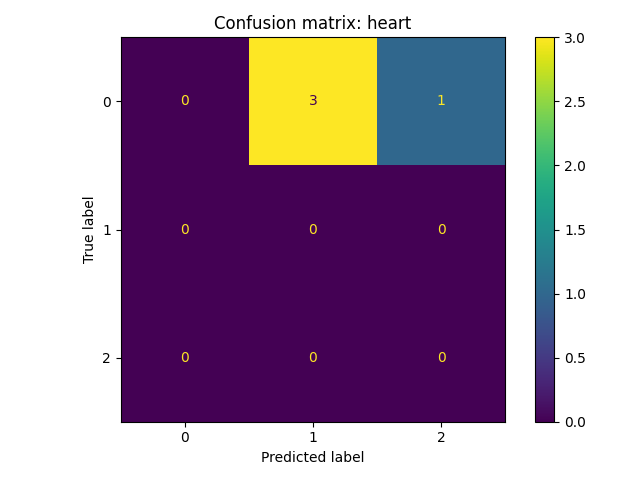
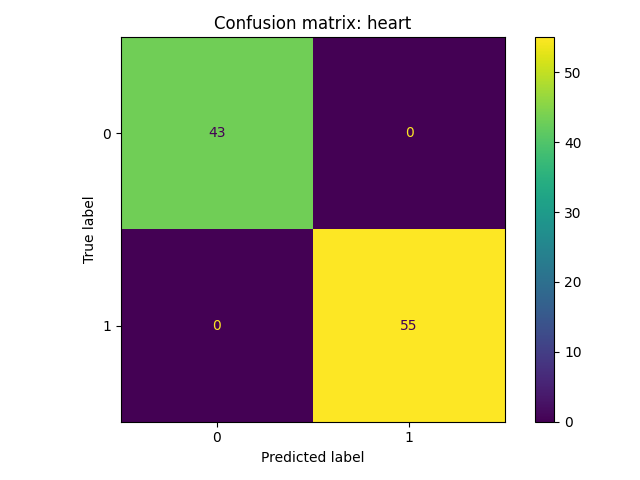
added triage results, enforcing range in Confidenc scores

diff --git a/2_llm_mcp.py b/2_llm_mcp.py
@@ -13,7 +13,7 @@ import re
 
 from openai import OpenAI
 
-from pydantic import BaseModel
+from pydantic import BaseModel, Field
 
 warnings.filterwarnings("ignore")
 
@@ -26,11 +26,16 @@ client = OpenAI(
 
 MODEL = "Llama-3.2-3B-Instruct-Q4_K_M:latest"
 
+class Confidence(BaseModel):
+    score: float = Field(ge=0, le=1)
+
 class TriageAnalysis(BaseModel):
     routes: list[str]
     primary: str
     confidence: dict[str, float]
     notes: str
+
+
 
 def call_llm_fn(prompt: str) -> str:
     # Replace with your actual OpenAI/LLM client call.
@@ -44,14 +49,6 @@ def call_llm_fn(prompt: str) -> str:
         response_format=TriageAnalysis,
     )
     return response.choices[0].message.parsed
-
-    return """{
-  "routes": ["diabetes", "heart"],
-  "primary": "heart",
-  "confidence": {"diabetes": 0.35, "heart": 0.72, "breast_cancer": 0.05},
-  "notes": "Brief triage rationale."
-}"""
-
 
 def make_case_text(pid, d_row, b_row, h_row):
     # d_row, b_row, h_row are 1D arrays (same as you pass to models)
@@ -151,21 +148,22 @@ class LLMPlannerAgent(BaseAgent):
             }
             self.model.triage_log.append(triage_log)
 
-            for disease in routes:
-                if disease in list(payload["data"].keys()):
-                    task_id = f"task_{disease}_{pid}"
-                    task = {
-                        "id": pid, 
-                        "description": 
-                        f"Analyze {disease} data", 
-                        "data": payload["data"][disease],
-                        "triage": triage_log
-                    }
-                    self.model.context[task_id] = task
-                    print(task["triage"])
-                    print(f"[{self.role}] Planned task {task_id}")
-                else:
-                    remaining.append(case)
+            # for disease in routes:
+            if disease in list(payload["data"].keys()):
+                task_id = f"task_{disease}_{pid}"
+                task = {
+                    "id": pid, 
+                    "description": 
+                    f"Analyze {disease} data", 
+                    "data": payload["data"][disease],
+                    "triage": triage_log, 
+                    "y_true": payload["labels"][disease]
+                }
+                self.model.context[task_id] = task
+                # print(task["triage"])
+                print(f"[{self.role}] Planned task {task_id}")
+            else:
+                remaining.append(case)
 
             # Route to appropriate executors based on LLM decision
             
@@ -234,7 +232,8 @@ class MCPMesaModel:
         self.triage_log = []
 
         # Add cases to queue (patients)
-        for _ in range(4):
+        n=100
+        for _ in range(n):
             pid = str(uuid.uuid4().int)[:4]
             idx_d = X_d.sample(1).index[0]
             d_row = X_d.loc[idx_d].values
@@ -352,7 +351,17 @@ for disease in results_df["Disease"].unique():
 
 
 # Analyse the triage performance
-
+triage_data = []
+for log in model.triage_log:
+    for dis, label in log["labels"].items():
+        pred = 1 if dis in log["routes"] else 0
+        triage_data.append({"Disease": dis, "y_true": label, "y_pred": pred})
+triage_df = pd.DataFrame(triage_data)
+for disease in triage_df["Disease"].unique():
+    sub = triage_df[triage_df["Disease"] == disease]
+    print(f"\n=== Triage Performance ({disease}) ===")
+    print(classification_report(sub["y_true"], sub["y_pred"], digits=3))
+    
 triage_df = pd.DataFrame(model.triage_log)
 print("Triage Collected:", len(triage_df))
 print(triage_df.head())
